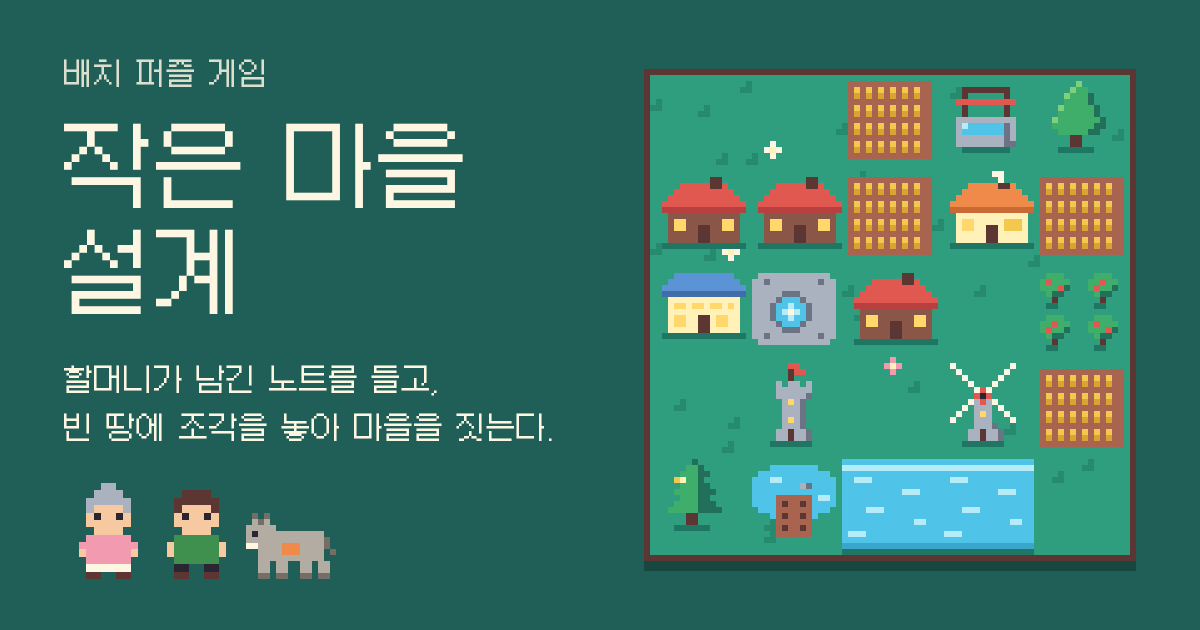
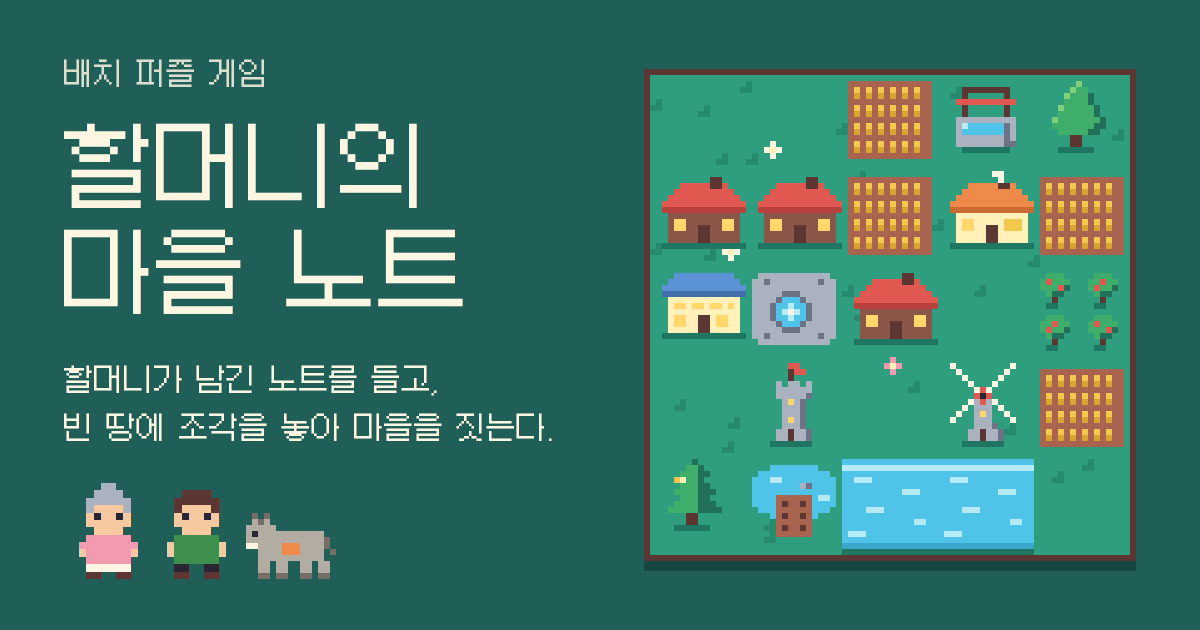
feat: 게임 이름을 '할머니의 마을 노트'로 변경
Claude-Session: https://claude.ai/code/session_014HkyDS5deajnzCFLDmtC1c

Changed region(s): [[0.0308, 0.181, 0.4008, 0.3317], [0.0308, 0.3619, 0.2158, 0.5127], [0.2467, 0.3619, 0.4008, 0.5127]]

diff --git a/index.html b/index.html
@@ -4,36 +4,36 @@
 <meta charset="utf-8">
 <meta name="viewport" content="width=device-width, initial-scale=1, viewport-fit=cover">
 <meta name="theme-color" content="#1f5f57">
-<title>작은 마을 설계 | 빈 땅에 마을을 짓는 배치 퍼즐 게임</title>
+<title>할머니의 마을 노트 | 빈 땅에 마을을 짓는 배치 퍼즐 게임</title>
 <meta name="description" content="할머니가 남긴 노트를 들고, 의뢰인의 빈 땅에 조각을 놓아 마을을 지어 주는 배치 퍼즐 게임. 설치 없이 웹에서 바로 할 수 있다.">
 <link rel="canonical" href="https://jicongjy.github.io/small-town/">
 <link rel="icon" type="image/png" sizes="32x32" href="img/favicon-32.png">
 <link rel="icon" type="image/png" sizes="512x512" href="img/icon-512.png">
 <link rel="apple-touch-icon" href="img/apple-touch-icon.png">
-<meta name="apple-mobile-web-app-title" content="작은 마을 설계">
+<meta name="apple-mobile-web-app-title" content="할머니의 마을 노트">
 <meta property="og:type" content="website">
-<meta property="og:site_name" content="작은 마을 설계">
+<meta property="og:site_name" content="할머니의 마을 노트">
 <meta property="og:locale" content="ko_KR">
 <meta property="og:url" content="https://jicongjy.github.io/small-town/">
-<meta property="og:title" content="작은 마을 설계">
+<meta property="og:title" content="할머니의 마을 노트">
 <meta property="og:description" content="할머니가 남긴 노트를 들고, 의뢰인의 빈 땅에 조각을 놓아 마을을 지어 주는 배치 퍼즐 게임. 설치 없이 웹에서 바로 할 수 있다.">
 <meta property="og:image" content="https://jicongjy.github.io/small-town/img/og.png">
 <meta property="og:image:width" content="1200">
 <meta property="og:image:height" content="630">
-<meta property="og:image:alt" content="작은 마을 설계. 도트 그림으로 그린 마을과 할머니, 손주, 당나귀 두부">
+<meta property="og:image:alt" content="할머니의 마을 노트. 도트 그림으로 그린 마을과 할머니, 손주, 당나귀 두부">
 <meta name="twitter:card" content="summary_large_image">
-<meta name="twitter:title" content="작은 마을 설계">
+<meta name="twitter:title" content="할머니의 마을 노트">
 <meta name="twitter:description" content="할머니가 남긴 노트를 들고, 의뢰인의 빈 땅에 조각을 놓아 마을을 지어 주는 배치 퍼즐 게임. 설치 없이 웹에서 바로 할 수 있다.">
 <meta name="twitter:image" content="https://jicongjy.github.io/small-town/img/og.png">
 <script type="application/ld+json">
-{"@context":"https://schema.org","@type":"VideoGame","name":"작은 마을 설계","url":"https://jicongjy.github.io/small-town/","image":"https://jicongjy.github.io/small-town/img/og.png","description":"할머니가 남긴 노트를 들고, 의뢰인의 빈 땅에 조각을 놓아 마을을 지어 주는 배치 퍼즐 게임. 설치 없이 웹에서 바로 할 수 있다.","inLanguage":"ko","genre":"퍼즐","gamePlatform":"웹 브라우저","applicationCategory":"Game","operatingSystem":"Any","offers":{"@type":"Offer","price":"0","priceCurrency":"KRW"}}
+{"@context":"https://schema.org","@type":"VideoGame","name":"할머니의 마을 노트","url":"https://jicongjy.github.io/small-town/","image":"https://jicongjy.github.io/small-town/img/og.png","description":"할머니가 남긴 노트를 들고, 의뢰인의 빈 땅에 조각을 놓아 마을을 지어 주는 배치 퍼즐 게임. 설치 없이 웹에서 바로 할 수 있다.","inLanguage":"ko","genre":"퍼즐","gamePlatform":"웹 브라우저","applicationCategory":"Game","operatingSystem":"Any","offers":{"@type":"Offer","price":"0","priceCurrency":"KRW"}}
 </script>
 <link rel="stylesheet" href="https://cdn.jsdelivr.net/npm/galmuri@2.40.2/dist/galmuri.css" integrity="sha384-55uQGdclWjXwWY0yHikdtcfcat9pPBqMBCVFIeWjRhvPPUYbpJLhIJegzTcFoh/A" crossorigin="anonymous" referrerpolicy="no-referrer">
 <link rel="stylesheet" href="style.css">
 </head>
 <body>
 <main id="app"></main>
-<noscript><h1>작은 마을 설계</h1><p>할머니가 남긴 노트를 들고, 의뢰인의 빈 땅에 조각을 놓아 마을을 지어 주는 배치 퍼즐 게임. 설치 없이 웹에서 바로 할 수 있다. 이 게임은 자바스크립트를 켜야 할 수 있습니다.</p></noscript>
+<noscript><h1>할머니의 마을 노트</h1><p>할머니가 남긴 노트를 들고, 의뢰인의 빈 땅에 조각을 놓아 마을을 지어 주는 배치 퍼즐 게임. 설치 없이 웹에서 바로 할 수 있다. 이 게임은 자바스크립트를 켜야 할 수 있습니다.</p></noscript>
 <script src="js/sprites.js"></script>
 <script src="js/data.js"></script>
 <script src="js/engine.js"></script>

diff --git a/js/ui.js b/js/ui.js
@@ -136,7 +136,7 @@
     });
     if (now < 0) now = ST.QUESTS.length - 1;
     var h = '<div class="row between"><div><h1 class="light">' + ST.TEXT.title + '</h1>' +
-      '<div class="light" style="font-size:12px;opacity:.8">' + esc(save.name) + '의 설계 노트 · 첫 번째 골짜기</div></div>' +
+      '<div class="light" style="font-size:12px;opacity:.8">' + esc(save.name) + '의 첫 번째 골짜기</div></div>' +
       '<button class="small" data-a="dex">도감</button></div>';
     h += '<div class="light mapstat"><span>지은 마을 ' + cleared + ' / ' + ST.QUESTS.length + '</span><span class="row" style="gap:4px">' + img('star', null, null, 'gs') + total + ' / ' + ST.QUESTS.length * 3 + '</span></div>';
 

diff --git a/js/data.js b/js/data.js
@@ -191,7 +191,7 @@
   };
 
   ST.TEXT = {
-    title: '작은 마을 설계',
+    title: '할머니의 마을 노트',
     // 처음 시작할 때 한 컷씩 넘겨 보는 이야기. imgs는 인물 그림, pieces는 조각 그림.
     prologue: [
       { imgs: ['grandma'], text: '봉 할머니는 이 근방에서 제일 이름난 마을 설계사다. 빈 땅만 보면 어디에 뭘 지을지 안다.' },

diff --git a/docs/기획.md b/docs/기획.md
@@ -1,4 +1,4 @@
-# 작은 마을 설계: 기획
+# 할머니의 마을 노트: 기획
 
 ## 한 줄 소개
 모은 건물 조각을 5×5 땅에 놓아, 옆 칸끼리 주고받는 효과로 의뢰 조건을 채우는 배치 게임.

diff --git a/README.md b/README.md
@@ -1,4 +1,4 @@
-# 작은 마을 설계
+# 할머니의 마을 노트
 
 할머니가 남긴 노트를 들고, 의뢰인의 빈 땅에 조각을 놓아 마을을 지어 주는 배치 퍼즐 게임.
 
